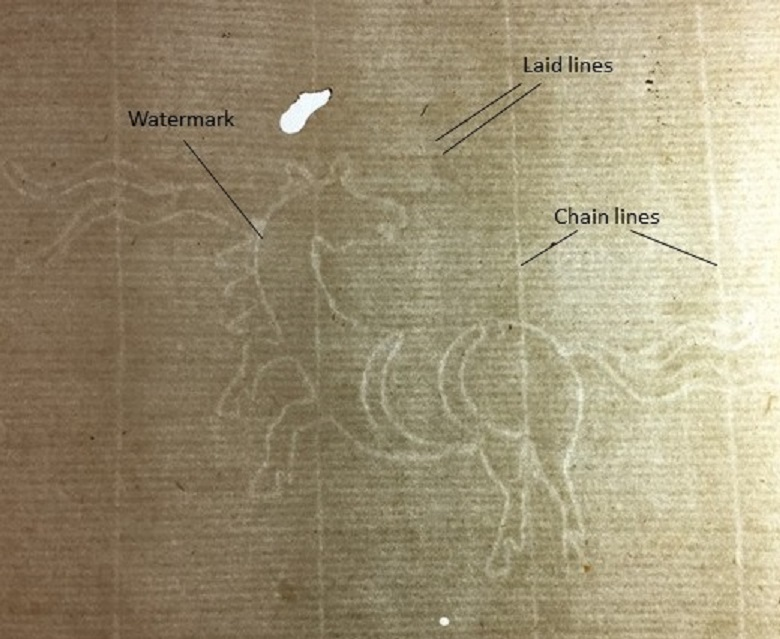
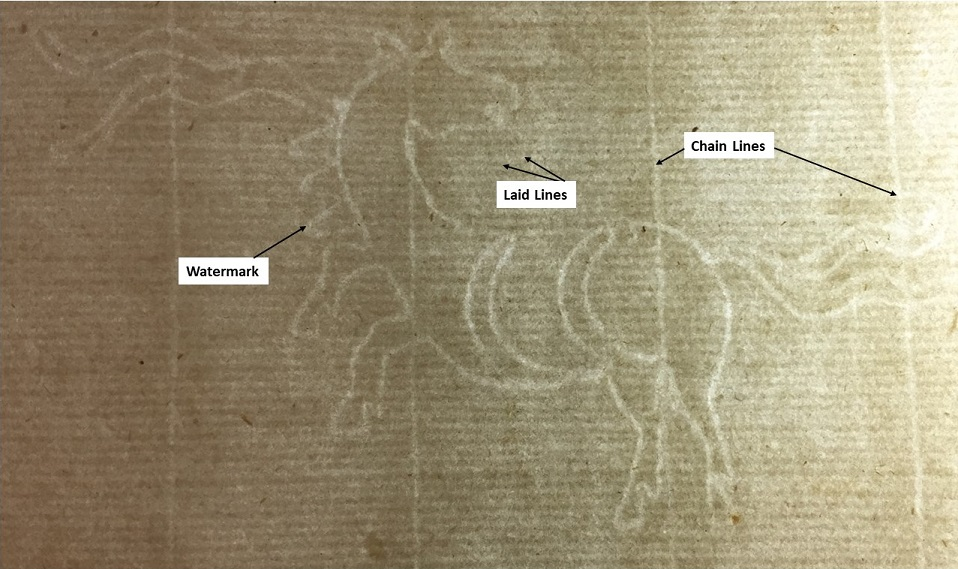
changed image

diff --git a/substrate.md b/substrate.md
@@ -21,10 +21,10 @@ In the Islamicate world, paper basically comes in three general types:
 - visible laid lines only and
 - visible laid and chain lines.
 
-This refers to what you see when you hold a leaf up to light. Handmade papers generally have some sort of pattern you can see, the exception is wove paper which has no pattern. Other papers generally have **chain lines** (wider spaced lines) and **laid lines**, also called water lines (narrowly spaced lines). These lines are a result of the mold on which the paper is made. This photo with labels shows a detail of laid and chain lines and a watermark.
+This refers to what you see when you hold a leaf up to light. Handmade papers generally have some sort of pattern you can see, the exception is wove paper which has no pattern. Other papers generally have **chain lines** (wider spaced lines) and **laid lines**, also called water lines (narrowly spaced lines). These lines are a result of the mold on which the paper is made. This photo with labels shows a detail of laid and chain lines and a watermark of a horse.
 
 ![Picture of paper with laid and chain lines labeled](/islamicmss/assets/laid-and-chain-lines.jpg)
-(Image: Kelly Tuttle)
+(Image: Kelly Tuttle from Upenn Libraries [Ms. Codex 1951](http://openn.library.upenn.edu/Data/0002/html/mscodex1951.html))
 
 **Indo-Persian handmade paper** generally has laid lines only, so only the closely-spaced lines. This type of paper was made on a reed or grass mold and was used all over the Eastern portion of the Islamicate world even up to the 20th century. For a manuscript showing the process of papermaking in the Indo-Persian world and a description with modern pictures of how it is done, see the British Library's [post about a papermaking workshop they held](https://britishlibrary.typepad.co.uk/collectioncare/2015/04/making-islamic-style-paper.html).
 
